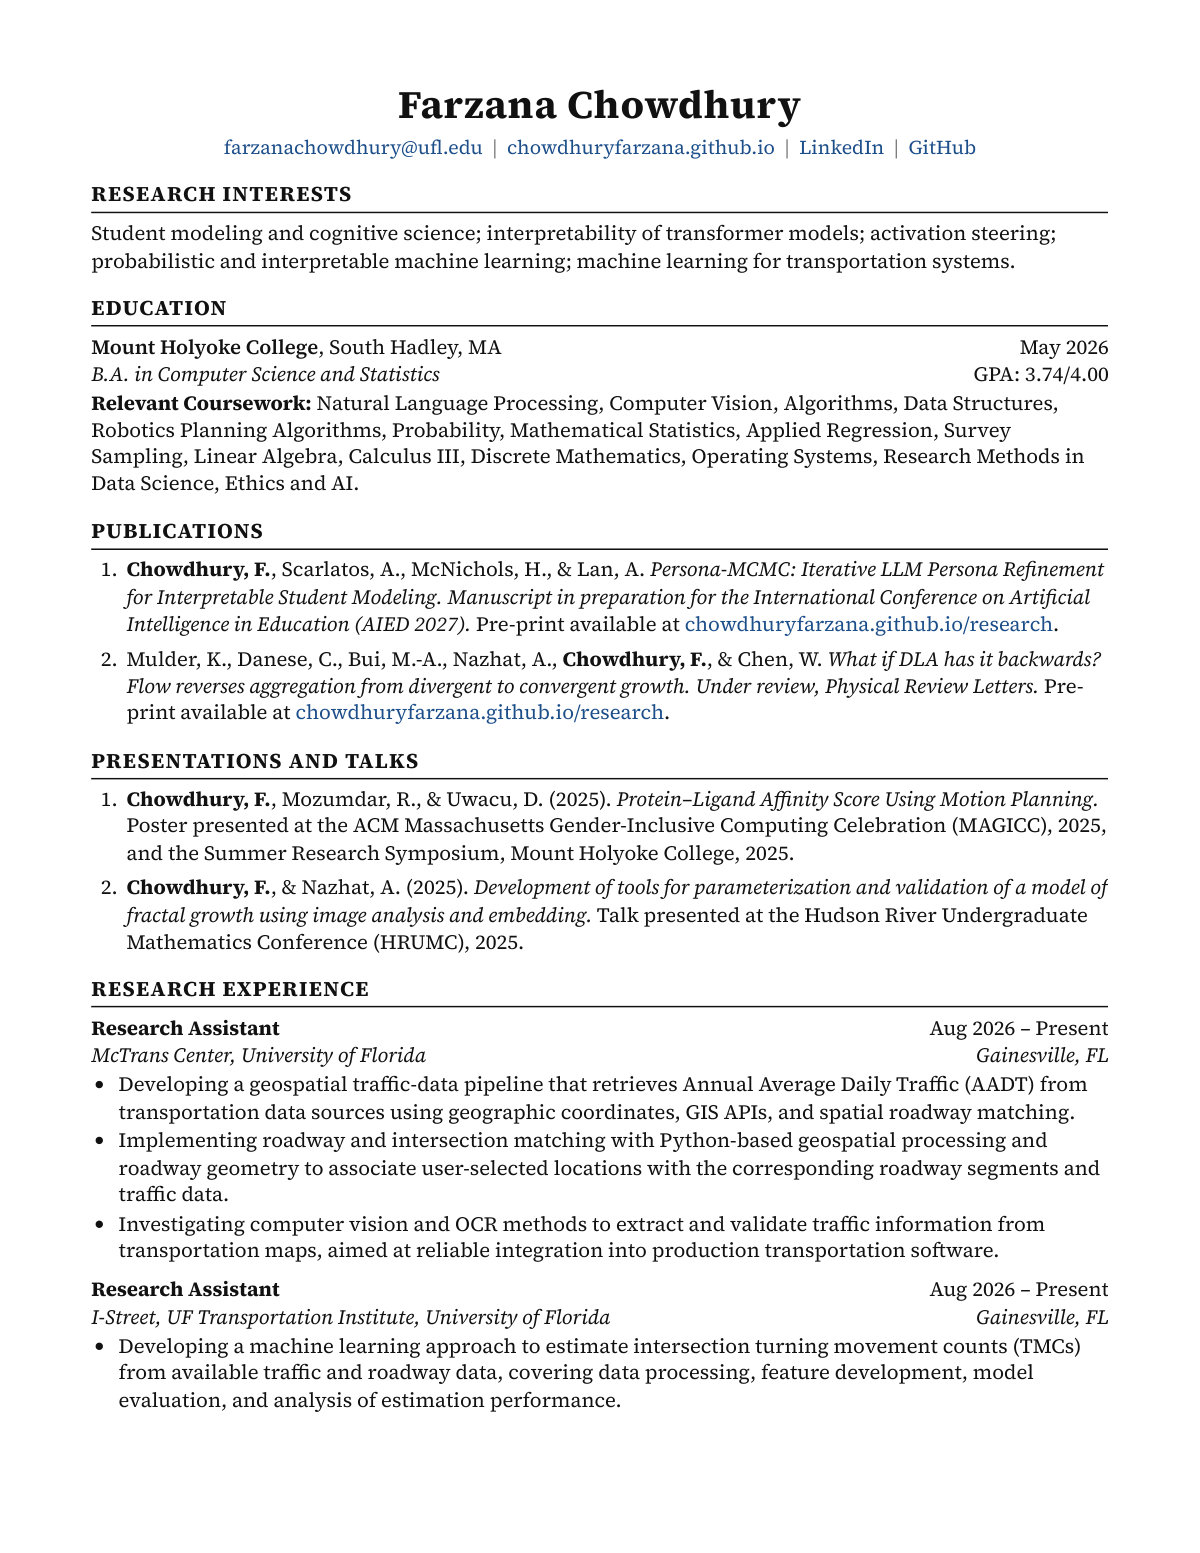
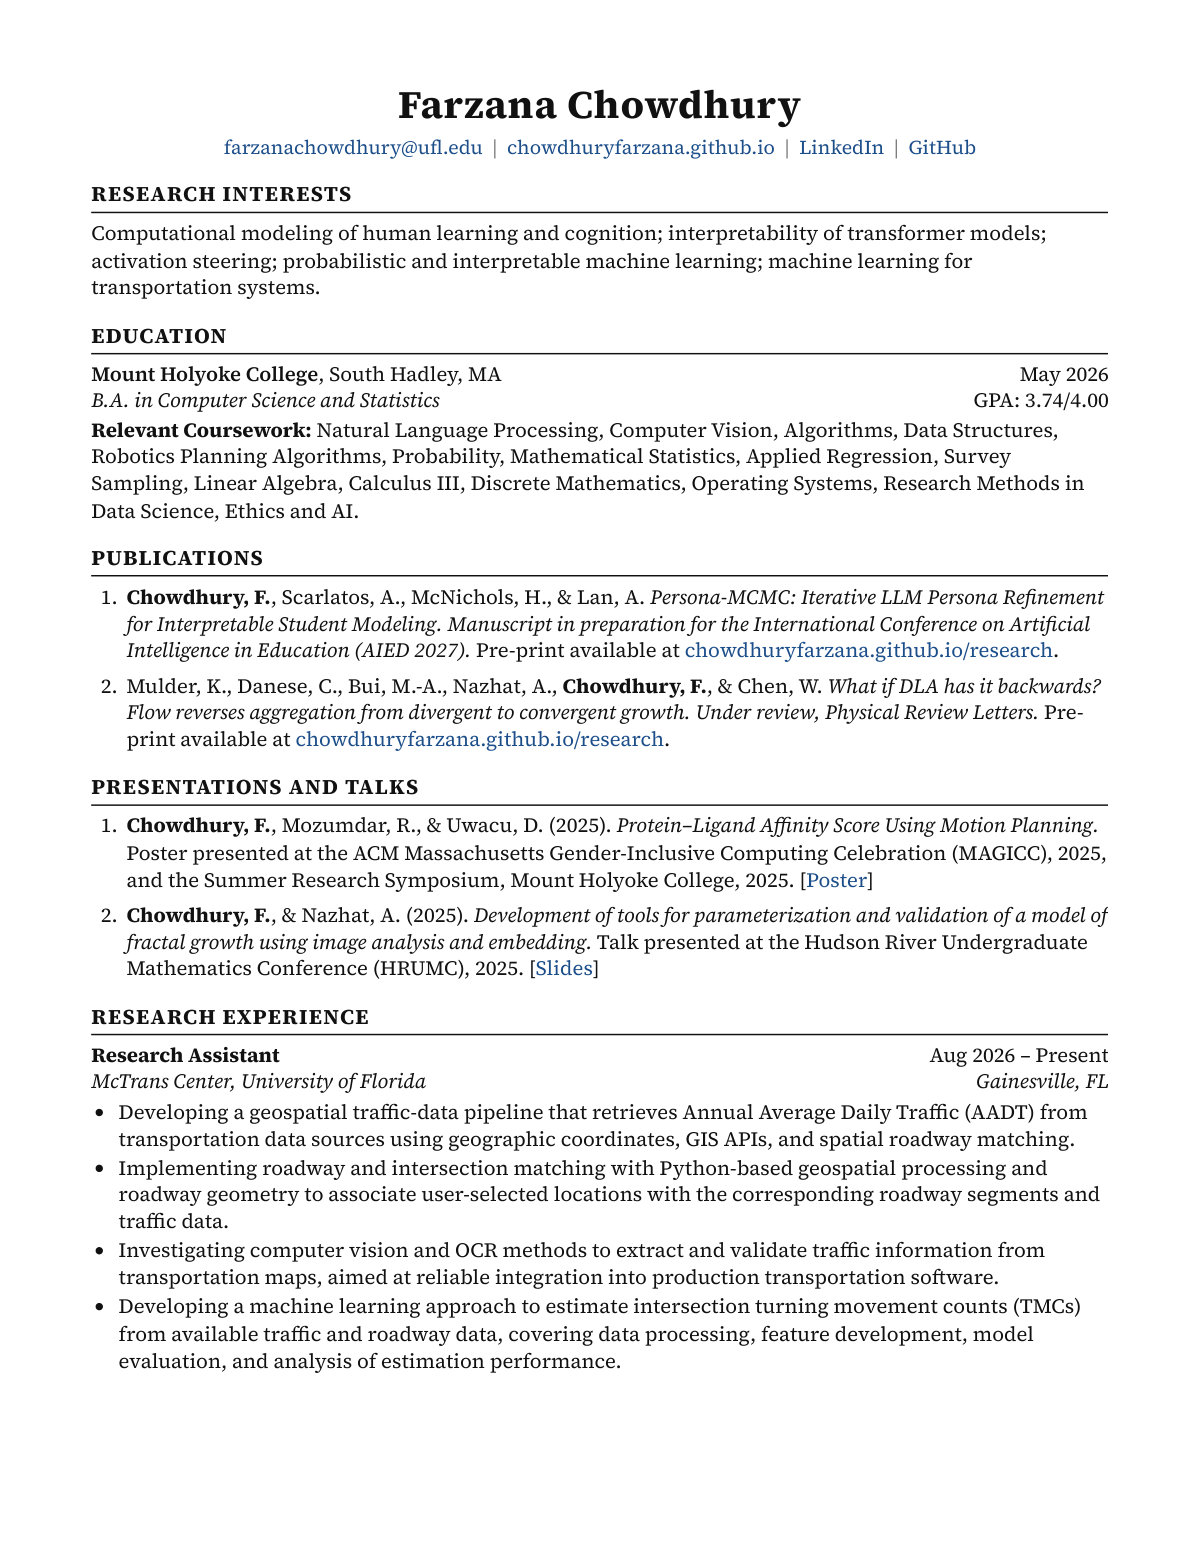
Update CV and site content
- CV: merge I-Street work into McTrans role, add poster/slides links,
  rename TA role and add Computer Vision, broaden research interests
- Home: simplify intro, retitle teaching role, merge I-Street into McTrans,
  use "Computational Modeling of Human Learning and Cognition"
- Research page: attribute TMC project and transportation work to McTrans

Changed region(s): [[0.0617, 0.1236, 0.925, 0.9272]]

diff --git a/index.html b/index.html
@@ -15,7 +15,7 @@
 
 <header class="site-header">
     <div class="container">
-        <a class="brand" href="index.html">Farzana Chowdhury<small>Interpretable ML · Student Modeling · Transportation</small></a>
+        <a class="brand" href="index.html">Farzana Chowdhury<small>Interpretable ML · Human Learning &amp; Cognition · Transportation</small></a>
         <ul class="nav">
             <li><a href="index.html" aria-current="page">Home</a></li>
             <li><a href="research.html">Research</a></li>
@@ -31,8 +31,8 @@
     <section class="hero" id="about">
         <div>
             <h1>Hi, I'm Farzana!</h1>
-            <p class="tags"><span>Student Modeling</span><span>Interpretable AI</span><span>Transformer Interpretability</span><span>Transportation Data Science</span></p>
-            <p>I am a <strong>Research Assistant at the University of Florida</strong>, working with the <strong>McTrans Center</strong> and <strong>I-Street</strong> at the UF Transportation Institute. My work sits where transportation engineering meets data science and AI. I build geospatial pipelines that retrieve traffic data (AADT) for any location and develop machine learning models that estimate intersection turning movement counts.</p>
+            <p class="tags"><span>Computational Modeling of Human Learning and Cognition</span><span>Interpretable AI</span><span>Transformer Interpretability</span><span>Transportation Data Science</span></p>
+            <p>I am a <strong>Research Assistant at the University of Florida</strong>, working with the <strong>McTrans Center</strong>. My work sits where transportation engineering meets data science and AI.</p>
             <p>I earned my <strong>B.A. in Computer Science &amp; Statistics from Mount Holyoke College</strong> (2026). Before transportation, I did research on interpretable student modeling with large language models at the UMass Amherst ML4ED Lab, which sparked my interest in cognitive science, how transformers represent knowledge, and how steering their activations changes what they do. I have also worked on robotics motion planning for protein–ligand binding at the RoSE and Parasol labs, and mathematical modeling of fractal growth at Hampshire College.</p>
             <div class="btns">
                 <a class="btn" href="research.html">See my research</a>
@@ -159,13 +159,6 @@
                 <li>Working on a geospatial traffic-data pipeline that retrieves Annual Average Daily Traffic (AADT) from transportation data sources using geographic coordinates, GIS APIs, and spatial roadway matching.</li>
                 <li>Implementing roadway and intersection matching using Python-based geospatial processing and roadway geometry to associate user-selected locations with corresponding traffic data and roadway segments.</li>
                 <li>Investigating computer vision and OCR methods for extracting and validating traffic information from transportation maps, with emphasis on improving reliability for integration into production transportation software.</li>
-            </ul>
-        </div>
-
-        <div class="entry">
-            <div class="entry-top"><h3>Research Assistant · I-Street, Transportation Institute</h3><span class="when">Aug 2026 – Present</span></div>
-            <div class="where">University of Florida, Gainesville, FL</div>
-            <ul>
                 <li>Developing a machine learning approach for estimating intersection turning movement counts (TMCs) from available traffic and roadway data, including data processing, feature development, model evaluation, and analysis of estimation performance.</li>
             </ul>
         </div>
@@ -197,10 +190,10 @@
         </div>
 
         <div class="entry">
-            <div class="entry-top"><h3>Teaching Assistant</h3><span class="when">Aug 2023 – May 2025</span></div>
+            <div class="entry-top"><h3>Undergraduate Teaching Assistant</h3><span class="when">Aug 2023 – May 2025</span></div>
             <div class="where">Mount Holyoke College, South Hadley, MA</div>
             <ul>
-                <li>Tutored and graded coursework for two undergraduate courses: <em>Introduction to Statistics</em> and <em>Linear Algebra</em>.</li>
+                <li>Tutored and graded coursework for three undergraduate courses: <em>Introduction to Statistics</em>, <em>Linear Algebra</em>, and <em>Computer Vision</em>.</li>
                 <li>Assisted peers through homework support and feedback, and helped develop problem-solving skills.</li>
             </ul>
         </div>

diff --git a/research.html b/research.html
@@ -15,7 +15,7 @@
 
 <header class="site-header">
     <div class="container">
-        <a class="brand" href="index.html">Farzana Chowdhury<small>Interpretable ML · Student Modeling · Transportation</small></a>
+        <a class="brand" href="index.html">Farzana Chowdhury<small>Interpretable ML · Human Learning &amp; Cognition · Transportation</small></a>
         <ul class="nav">
             <li><a href="index.html">Home</a></li>
             <li><a href="research.html" aria-current="page">Research</a></li>
@@ -55,7 +55,7 @@
             </div>
             <div class="interest">
                 <h3>Machine learning for transportation systems</h3>
-                <p>At the UF Transportation Institute, I apply the same mindset to infrastructure. Agencies cannot count traffic everywhere, so I build models that estimate intersection turning movement counts and Annual Average Daily Traffic (AADT) from the data that <em>is</em> available. I also build geospatial and computer vision pipelines that link map locations to the right roadway and read traffic values from map images. I care about honest evaluation: how well estimates generalize to new places, and how much each one can be trusted.</p>
+                <p>At the McTrans Center, University of Florida, I apply the same mindset to infrastructure. Agencies cannot count traffic everywhere, so I build models that estimate intersection turning movement counts and Annual Average Daily Traffic (AADT) from the data that <em>is</em> available. I also build geospatial and computer vision pipelines that link map locations to the right roadway and read traffic values from map images. I care about honest evaluation: how well estimates generalize to new places, and how much each one can be trusted.</p>
             </div>
             <div class="interest">
                 <h3>Computational modeling across disciplines</h3>
@@ -230,7 +230,7 @@
             <div>
                 <span class="badge">Transportation · Ongoing</span>
                 <h3>Machine Learning Estimation of Intersection Turning Movement Counts</h3>
-                <div class="meta">I-Street, UF Transportation Institute · Aug 2026 – Present</div>
+                <div class="meta">McTrans Center, University of Florida · Aug 2026 – Present</div>
                 <p><strong>Turning movement counts (TMCs)</strong> record how many vehicles turn left, go straight through, or turn right on each approach of an intersection. They are essential for signal timing, capacity analysis, and intersection design. But collecting them requires field counts or video at each site, so most intersections have none.</p>
                 <p>I am developing a machine learning approach that estimates TMCs from traffic and roadway data that are already available. The work covers data processing, feature development, model evaluation, and analysis of where the estimates are reliable and where they are not.</p>
                 <p class="method"><b>Method:</b> Data processing and feature engineering from traffic and roadway data; supervised machine learning; model evaluation and error analysis.</p>
